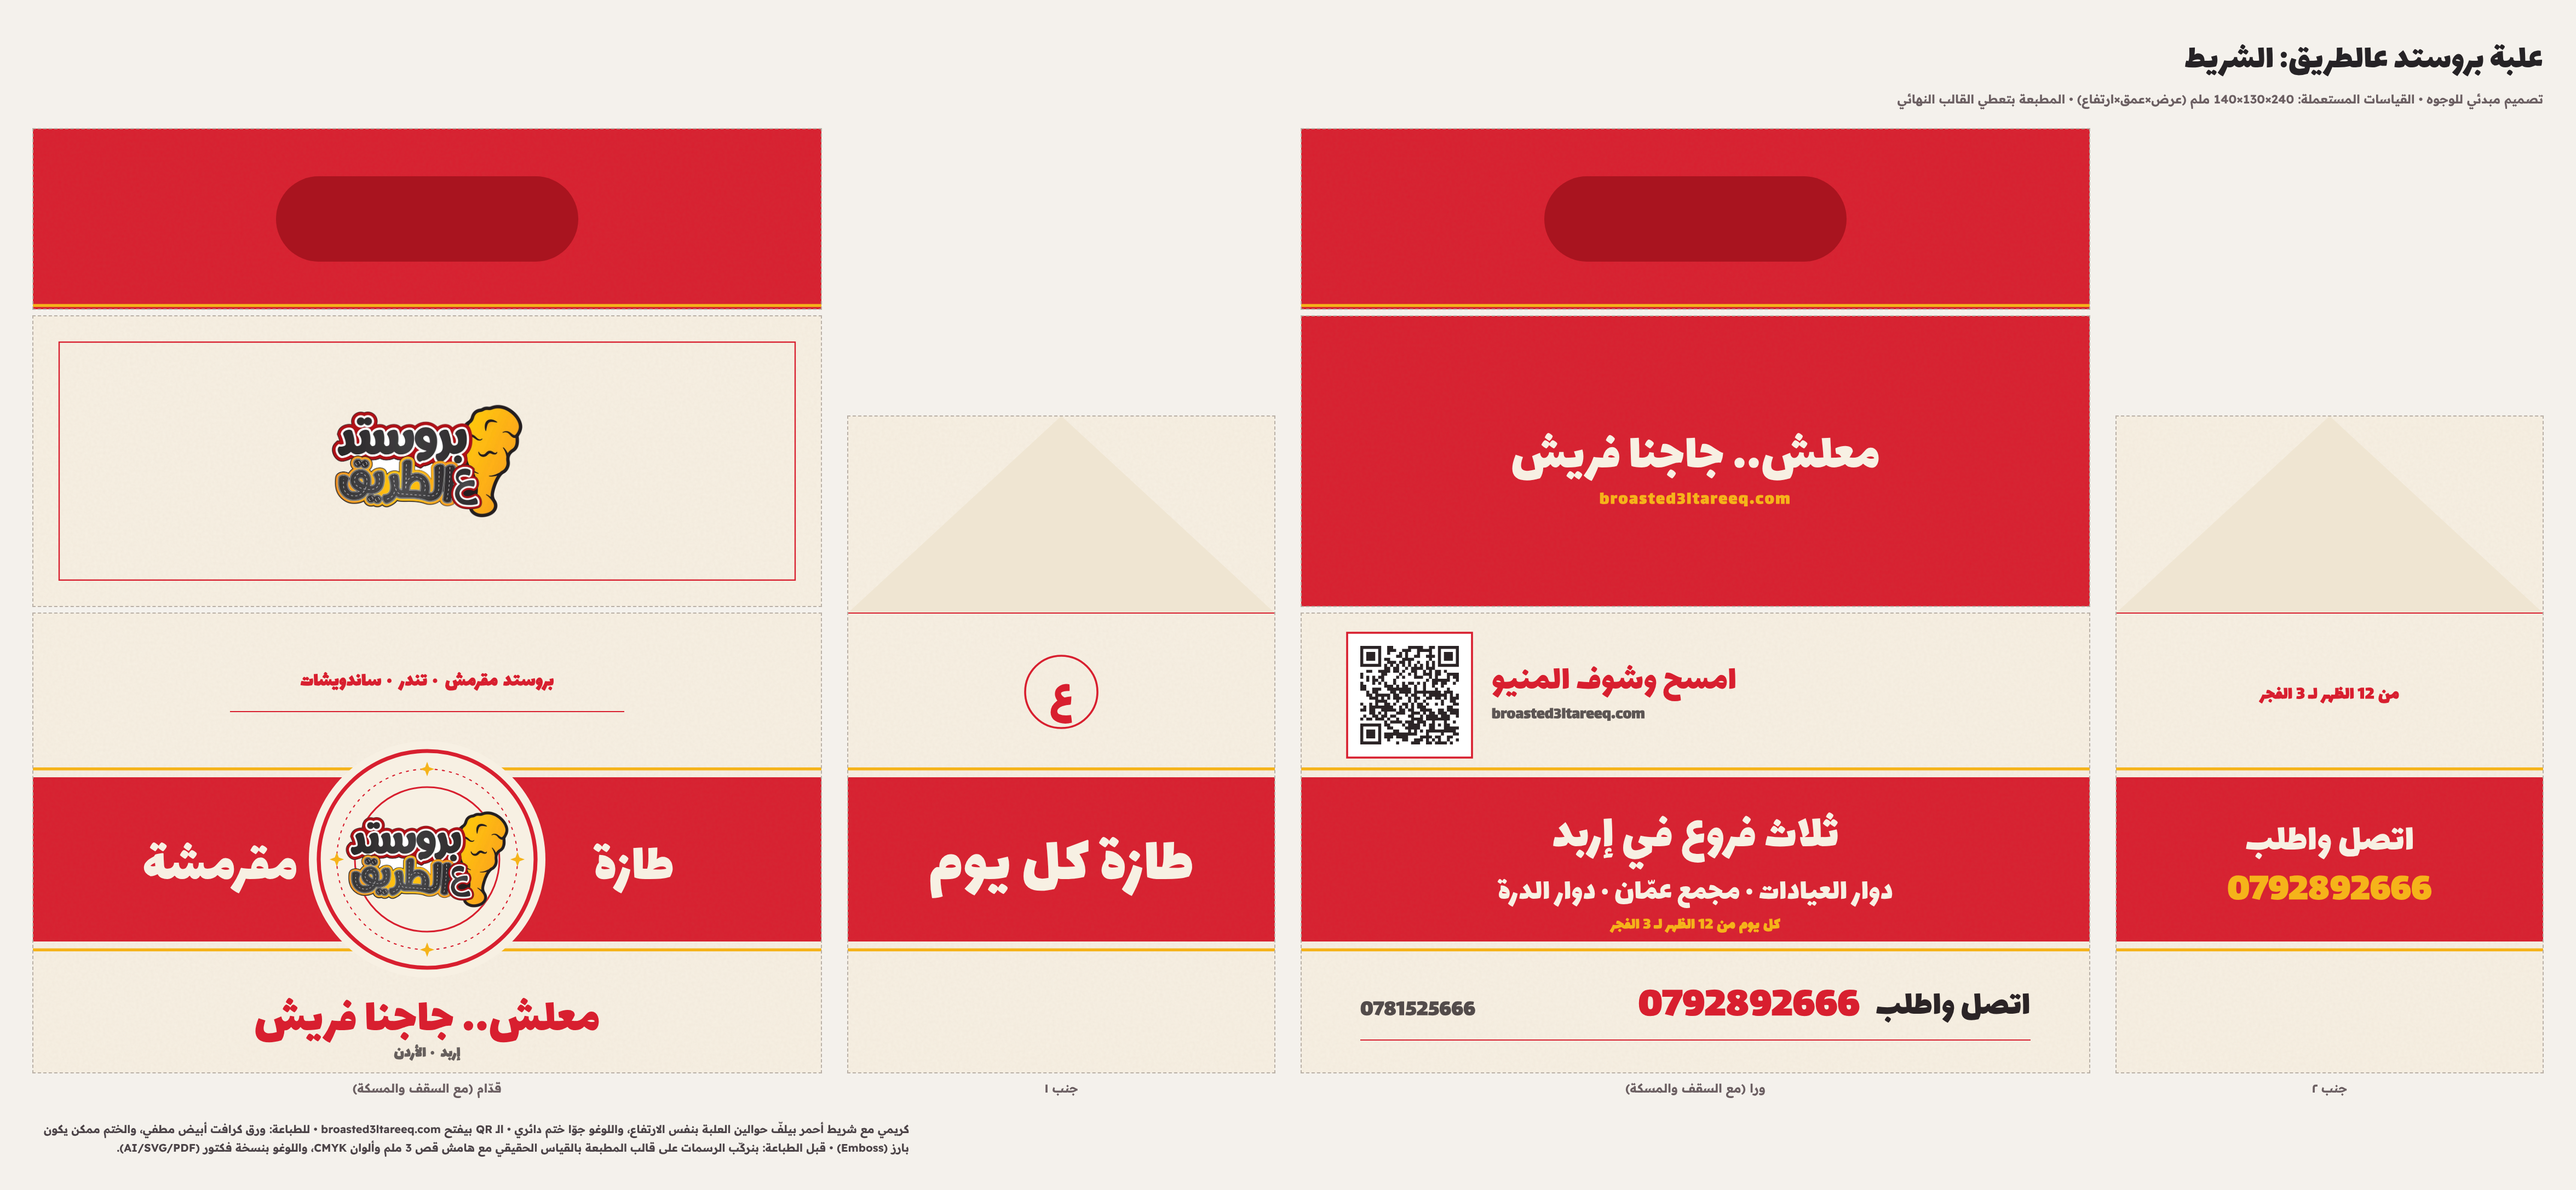
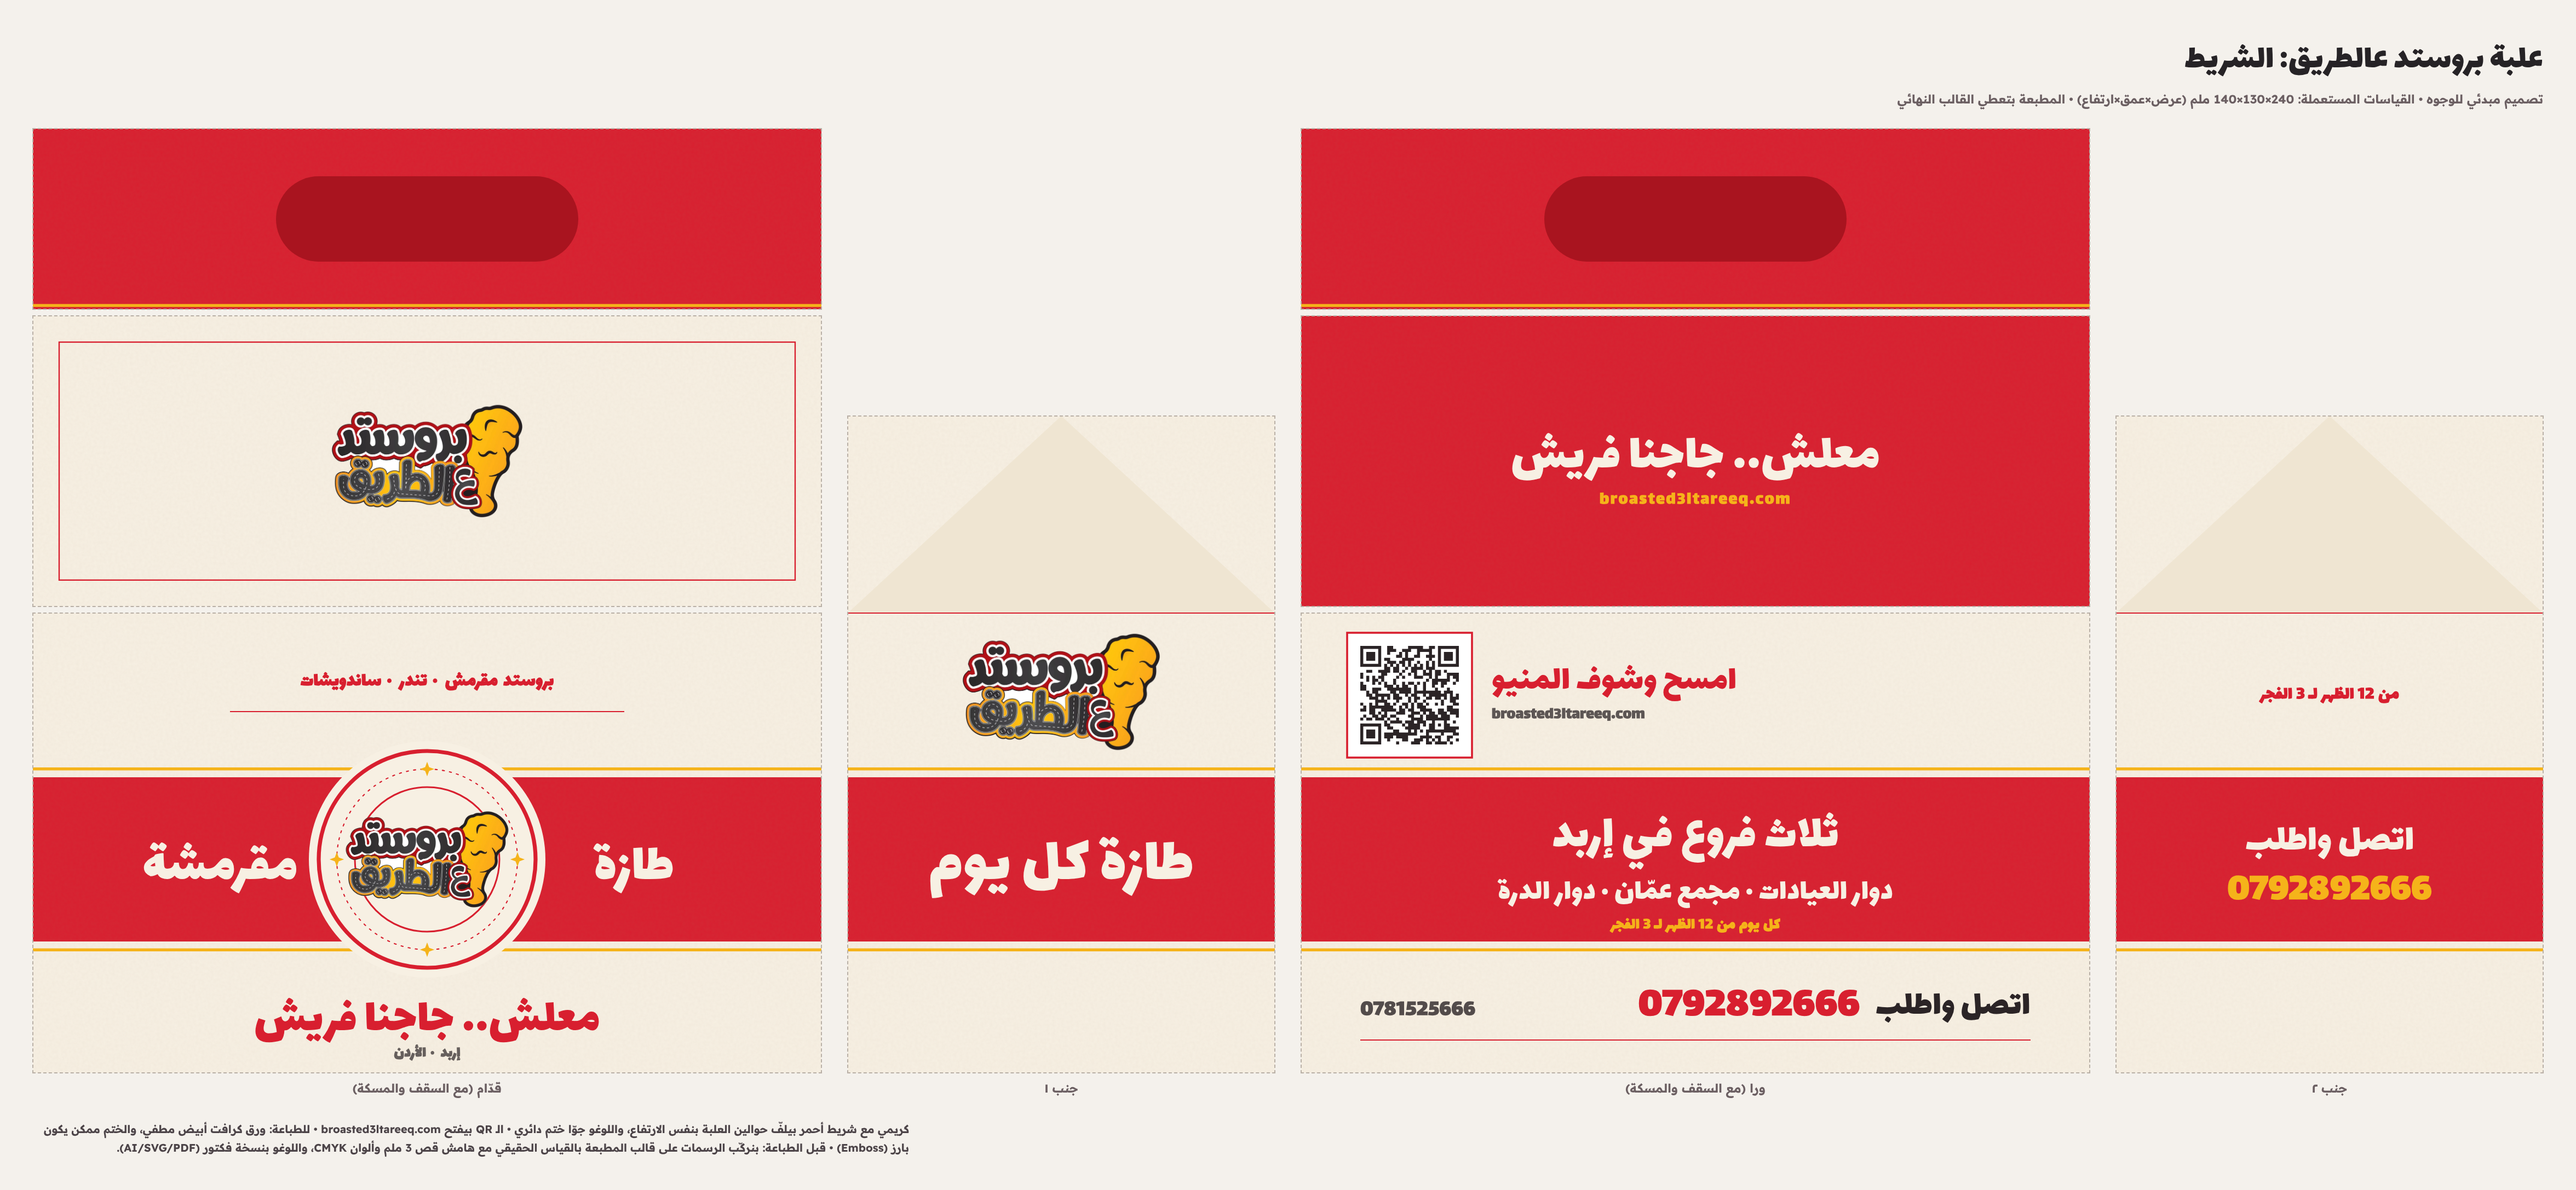
التصميم السابع: اللوغو مكان حرف ع على الجنب
Claude-Session: https://claude.ai/code/session_01WPr9vMccuXjifxAufdaLsB

Changed region(s): [[0.375, 0.5239, 0.4688, 0.6472]]

diff --git a/packaging/box7.html b/packaging/box7.html
@@ -163,7 +163,7 @@ function sideA() {
   const k = kit(D, H + R);
   return side(
     SA(D / 2, BAND_TOP + 31, 20, S.cream, 'طازة كل يوم', 'text-anchor="middle"'),
-    `<g transform="translate(${D / 2} 24)"><circle r="11" fill="none" stroke="${S.red}" stroke-width=".6"/>${SA(0, 5, 14, S.red, 'ع', 'text-anchor="middle"')}</g>`, k);
+    `<image href="${LOGO}" x="${D / 2 - 30}" y="${24 - 30 * LOGO_RATIO}" width="60" height="${60 * LOGO_RATIO}"/>`, k);
 }
 
 function sideB() {
